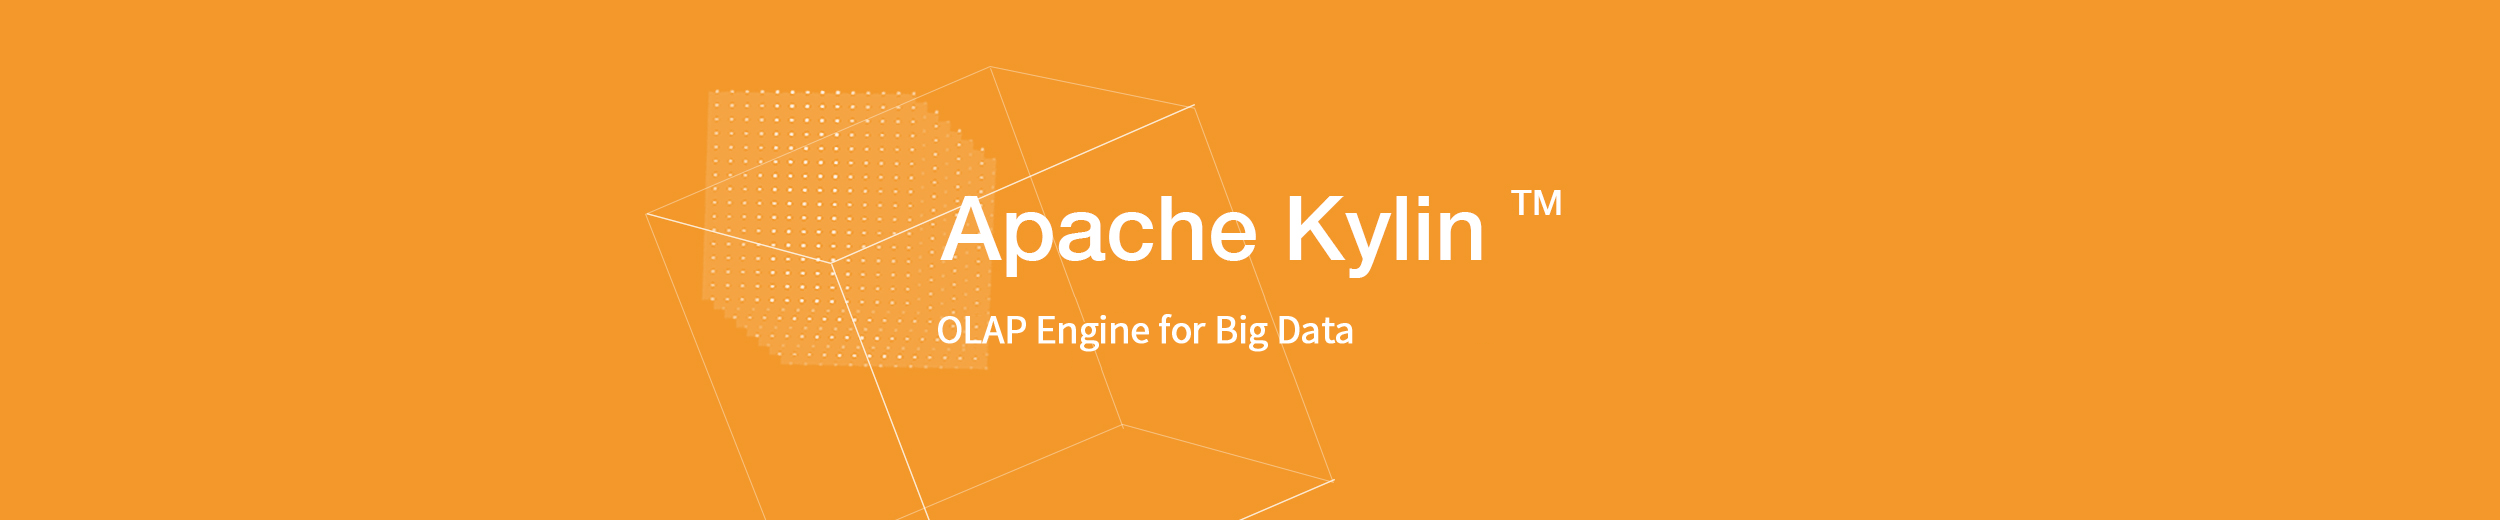
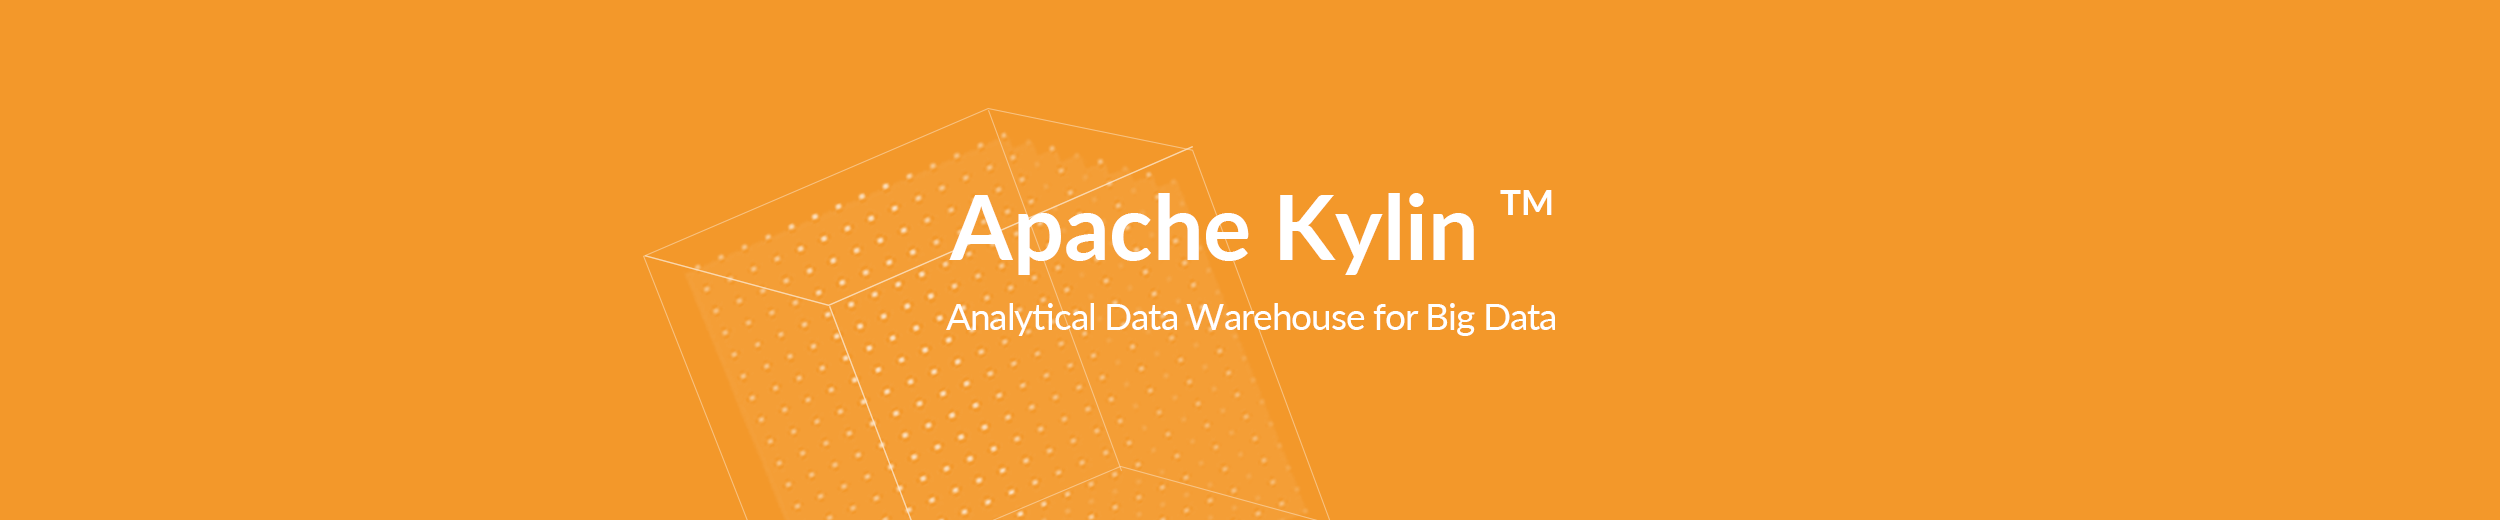
update slogan image

diff --git a/website/assets/css/styles.css b/website/assets/css/styles.css
@@ -132,7 +132,7 @@ a:hover, a:focus {
 
 **********************************************************************/
 #head {
-	background: #f4f4f4 url(../images/data.png) top center;
+	background: #f4f4f4 url(../images/data.jpg) top center;
 	background-size: cover;
 	color: #7C7C7C;
 	height: 520px;	
@@ -231,7 +231,7 @@ a:hover, a:focus {
 
 .navbar {
 	/*
-	background: #f4f4f4 url(../images/data.png) top center;
+	background: #f4f4f4 url(../images/data.jpg) top center;
 	background-size: cover;
 	color: #7C7C7C;
 	height: 100px;

diff --git a/website/index.cn.md b/website/index.cn.md
@@ -1,6 +1,6 @@
 ---
 layout: default-cn
-title: 大数据上的OLAP引擎
+title: 大数据分析型数据仓库
 ---
 
 
@@ -53,7 +53,7 @@ title: 大数据上的OLAP引擎
                 <div class="home-pic">
                   <img width="30" src="{{"/assets/images/icon_index_olap.png" | prepend: site.baseurl }}">
                 </div>
-                <b>可扩展超快的基于大数据的 OLAP 引擎: </b><br/>
+                <b>可扩展超快的基于大数据的分析型数据仓库: </b><br/>
                 <div class="indent" style="margin-top: 25px">Kylin 是为减少在 Hadoop/Spark 上百亿规模数据查询延迟而设计</div>
               </div>
             </div>
@@ -63,7 +63,7 @@ title: 大数据上的OLAP引擎
                   <img width="30" src="{{"/assets/images/icon_index_hadoop.png" | prepend: site.baseurl }}">
                 </div>
                 <b>Hadoop ANSI SQL 接口: </b><br/>
-                <div class="indent" style="margin-top: 25px">作为一个 OLAP 引擎，Kylin 为 Hadoop 提供标准 SQL 支持大部分查询功能</div>
+                <div class="indent" style="margin-top: 25px">作为一个分析型数据仓库(也是 OLAP 引擎)，Kylin 为 Hadoop 提供标准 SQL 支持大部分查询功能</div>
               </div>
             </div>
             <div class="col-sm-6 col-md-6">
@@ -348,7 +348,7 @@ title: 大数据上的OLAP引擎
             <h6>
               <span class="circle-spot">Kylin 核心:</span>
             </h6> 
-            <p>Kylin OLAP引擎基础框架，包括元数据（Metadata）引擎，查询引擎，Job引擎及存储引擎等，同时包括REST服务器以响应客户端请求</p>
+            <p>Kylin 基础框架，包括元数据（Metadata）引擎，查询引擎，Job引擎及存储引擎等，同时包括REST服务器以响应客户端请求</p>
             <h6>
               <span class="circle-spot">扩展:</span>
             </h6> 

diff --git a/website/index.md b/website/index.md
@@ -1,6 +1,6 @@
 ---
 layout: default
-title: OLAP engine for big data
+title: Analytical Data Warehouse for Big Data
 ---
 
 
@@ -74,7 +74,7 @@ title: OLAP engine for big data
                   <img width="30" src="assets/images/icon_index_hadoop.png">
                 </div>
                 <h6><b>ANSI SQL Interface for Big Data on Hadoop</b></h6>
-                <div class="indent" style="margin-top: 25px">As an OLAP engine, Kylin offers ANSI SQL on Hadoop/Spark and supports most ANSI SQL query functions.</div>
+                <div class="indent" style="margin-top: 25px">As an Analytical Data Warehouse, Kylin offers ANSI SQL on Hadoop/Spark and supports most ANSI SQL query functions.</div>
               </div>
             </div>
             <div class="col-sm-6 col-md-6">
